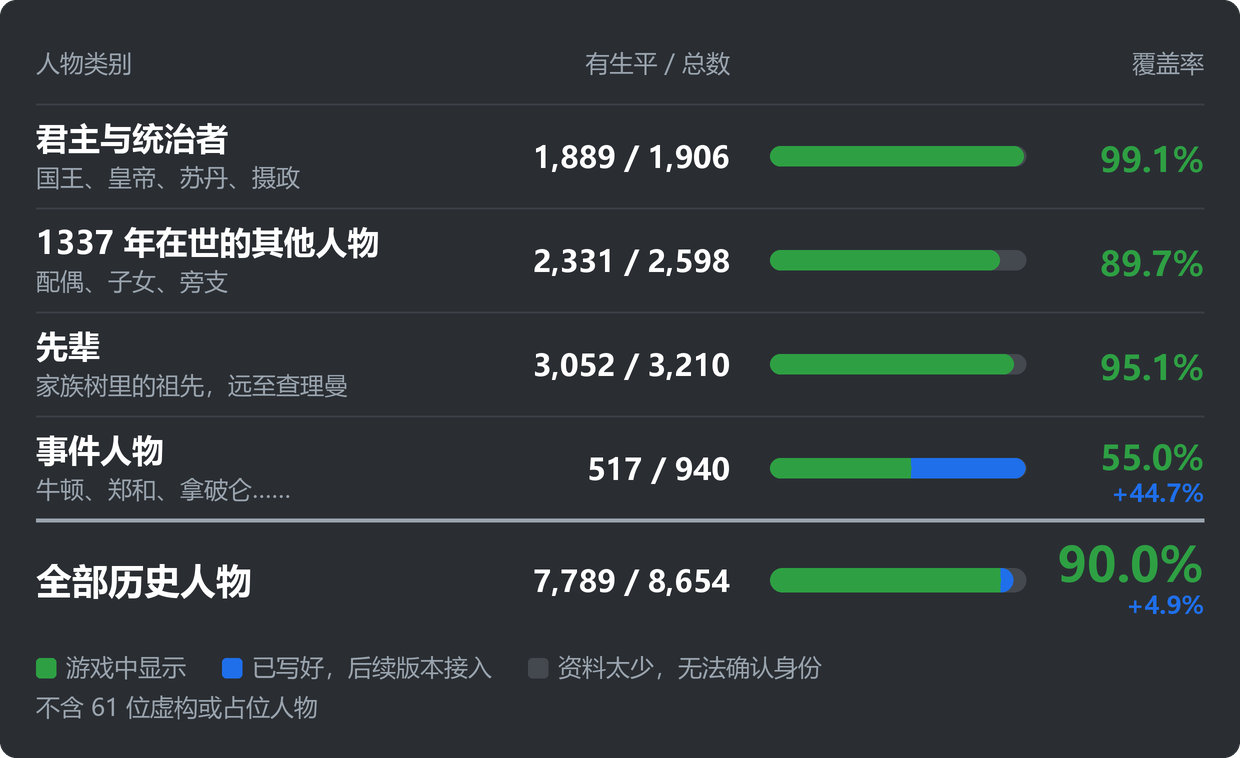
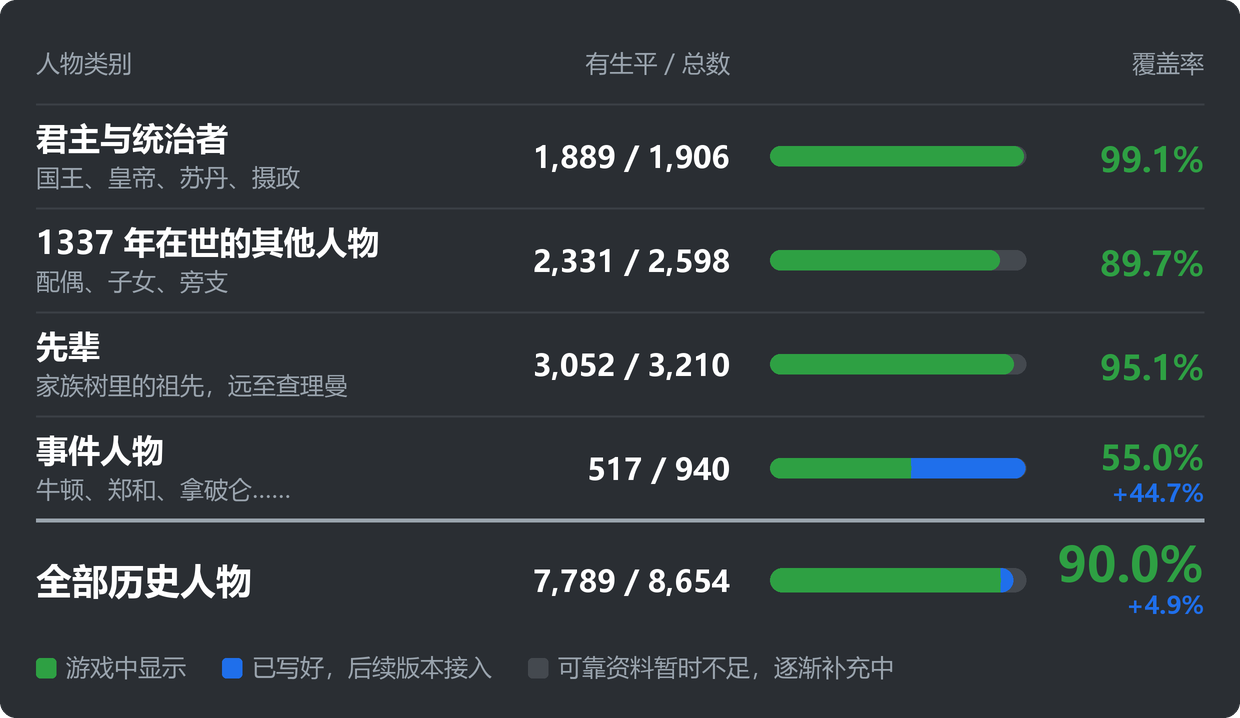
Workshop page: rewrite from author draft, new coverage legend, gallery screenshots

diff --git a/workshop/assets/coverage-20261105/render.py b/workshop/assets/coverage-20261105/render.py
@@ -7,7 +7,7 @@ from PIL import Image, ImageDraw, ImageFont
 ROOT = Path(__file__).resolve().parent
 S = 4                       # internal supersampling; exported at 2x
 W = 620                     # logical width, fits Steam's description column
-PAD, ROW_H, HEAD_H, TOTAL_H, LEGEND_H, RADIUS = 18, 52, 34, 60, 50, 8
+PAD, ROW_H, HEAD_H, TOTAL_H, LEGEND_H, RADIUS = 18, 52, 34, 60, 30, 8
 BG, ROW_LINE, TRACK = '#2a2e33', '#3a3f45', '#44494f'
 GREEN, BLUE, MUTED, WHITE = '#2ea043', '#1f6feb', '#9aa4ae', '#ffffff'
 BOLD = 'C:/Windows/Fonts/msyhbd.ttc'
@@ -21,16 +21,16 @@ TEXT = {
            'ancestors': ('Ancestors', 'Family trees, back to Charlemagne'),
            'events': ('Event figures', 'Newton, Zheng He, Napoleon…'),
            'total': ('All historical characters', None),
-           'legend': ('Shown in game', 'Written, attaching in a coming update', 'Too little known to identify'),
-           'foot': 'Excludes {n} fictional or placeholder characters'},
+           'legend': ('Shown in game', 'Written, attaching in a coming update', 'Not enough reliable sources yet, being filled in'),
+           },
     'zh-CN': {'head': ('人物类别', '有生平 / 总数', '覆盖率'),
               'rulers': ('君主与统治者', '国王、皇帝、苏丹、摄政'),
               'living': ('1337 年在世的其他人物', '配偶、子女、旁支'),
               'ancestors': ('先辈', '家族树里的祖先，远至查理曼'),
               'events': ('事件人物', '牛顿、郑和、拿破仑……'),
               'total': ('全部历史人物', None),
-              'legend': ('游戏中显示', '已写好，后续版本接入', '资料太少，无法确认身份'),
-              'foot': '不含 {n} 位虚构或占位人物'},
+              'legend': ('游戏中显示', '已写好，后续版本接入', '可靠资料暂时不足，逐渐补充中'),
+              },
 }
 
 
@@ -97,7 +97,6 @@ def render(lang, data):
         d.rounded_rectangle((x * S, (y - 9) * S, (x + 10) * S, (y + 1) * S), 2 * S, fill=color)
         text(d, (x + 15, y), label, f_leg, MUTED)
         x += 15 + d.textlength(label, font=f_leg) / S + 18
-    text(d, (PAD, y + 20), t['foot'].format(n=data['excluded_non_historical']), f_leg, MUTED)
     out = ROOT / f'coverage.{lang}.png'
     img.resize((W * 2, H * 2), Image.Resampling.LANCZOS).save(out, optimize=True)
     return out

diff --git a/tools/steam_page.py b/tools/steam_page.py
@@ -2,7 +2,7 @@
 
 python -B tools/steam_page.py --output dist/<新记录>.json                 # 只读：两种语言的标题、描述、封面、可见性
 python -B tools/steam_page.py --descriptions --output dist/<新记录>.json  # 提交两种语言的标题和描述（每种语言标题描述一起提交）
-python -B tools/steam_page.py --assets --output dist/<新记录>.json        # 更新主封面和中文附图
+python -B tools/steam_page.py --assets --output dist/<新记录>.json        # 更新主封面、中文附图和 page.json 登记的画廊截图
 python -B tools/steam_page.py --host-images --output dist/<新记录>.json   # 把描述里用的覆盖率表图存进 Steam 云并公开分享（单独运行）；网址写进 page.json
 
 游戏、条目编号和 steam_api64.dll 路径都读 project.json（steam_app_id、publishedfileid、steam_api_dll）；
@@ -126,7 +126,9 @@ class Steam:
             if not ((path/'.metadata/metadata.json').is_file() or (path/'descriptor.mod').is_file()):
                 raise ValueError('Content must be the built mod folder')
             assert self.ug('SetItemContent', B, [U64,S], handle, str(path).encode())
-        paths = ['workshop/assets/cover.zh-CN.jpg']
+        page = json.loads((ROOT/'workshop/page.json').read_text(encoding='utf-8'))
+        # 画廊不分语言：中文附图加上 page.json 登记的游戏截图，按登记顺序；同名文件就地替换。
+        paths = ['workshop/assets/cover.zh-CN.jpg'] + [s['file'] for s in page.get('screenshots', [])]
         for relative in paths:
             path = ROOT/relative
             assert path.is_file() and path.stat().st_size < 1_000_000
